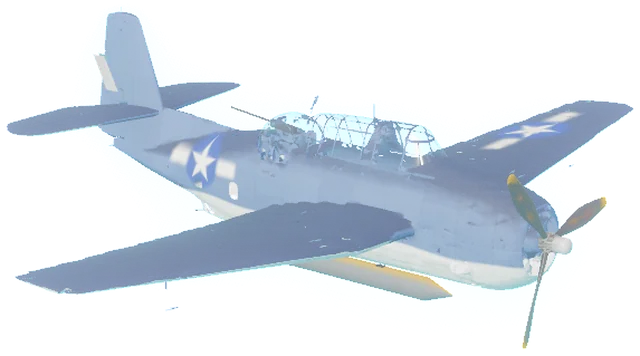
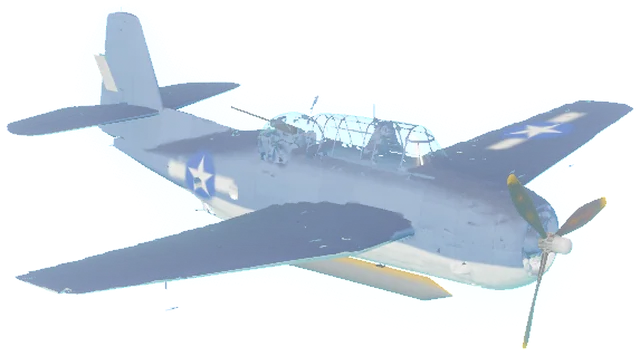
Markings centred on the wing chord and on the flank (the B-29 star was off), wing roots keep the upper colour

Changed region(s): [[0.25, 0.3708, 0.375, 0.5871], [0.75, 0.309, 0.9062, 0.4326], [0.8125, 0.7416, 0.8438, 0.7725]]

diff --git a/js/game/model/airpaint.js b/js/game/model/airpaint.js
@@ -51,17 +51,17 @@ export const AIRPAINT = {
     hw: 1.0, upper: '#4b5a6b', lower: '#adb1b3', line: -0.2, finish: [0.82, 0.0],
     decals: [
       { face: 'side', x: -2.0, y: 0.1, prims: usInsignia(0.4, false) },
-      { face: 'top', wing: 'port', x: 0.5, z: 4.4, prims: usInsignia(0.55, true) },
-      { face: 'bottom', wing: 'starboard', x: 0.5, z: 4.4, prims: usInsignia(0.55, true) },
+      { face: 'top', wing: 'port', x: 0.64, z: 4.4, prims: usInsignia(0.55, true) },
+      { face: 'bottom', wing: 'starboard', x: 0.64, z: 4.4, prims: usInsignia(0.55, true) },
     ],
   },
   // Grumman TBF-1C Avenger (1943): the tricolour, sea blue over intermediate blue over insignia white
   tbf: {
     hw: 1.3, upper: '#202e46', side: '#4b6286', lower: '#e2e4de', line: -0.35, finish: [0.82, 0.0],
     decals: [
-      { face: 'side', x: -3.2, y: 0.3, prims: usInsignia(0.5, false) },
-      { face: 'top', wing: 'port', x: 0.55, z: 5.6, prims: usInsignia(0.75, true) },
-      { face: 'bottom', wing: 'starboard', x: 0.55, z: 5.6, prims: usInsignia(0.75, true) },
+      { face: 'side', x: -3.2, y: 0.0, prims: usInsignia(0.5, false) },
+      { face: 'top', wing: 'port', x: 0.67, z: 5.6, prims: usInsignia(0.75, true) },
+      { face: 'bottom', wing: 'starboard', x: 0.67, z: 5.6, prims: usInsignia(0.75, true) },
     ],
   },
   // Ilyushin Il-2 (1942): 4BO green with black-green and brown blotches over light blue, red stars with a white edge
@@ -70,8 +70,8 @@ export const AIRPAINT = {
     camo: [{ col: '#2b3224', scale: 1.25, thr: 0.55, seed: 3, sides: true }, { col: '#5d4b30', scale: 0.9, thr: 0.64, seed: 11, sides: true }],
     decals: [
       { face: 'side', x: -3.0, y: 0.1, prims: redStar(0.45) },
-      { face: 'top', wing: 'both', x: 1.4, z: 4.6, prims: redStar(0.65) },
-      { face: 'bottom', wing: 'both', x: 1.4, z: 4.6, prims: redStar(0.65) },
+      { face: 'top', wing: 'both', x: 0.7, z: 4.6, prims: redStar(0.65) },
+      { face: 'bottom', wing: 'both', x: 0.7, z: 4.6, prims: redStar(0.65) },
     ],
   },
   // Messerschmitt Bf 109 F-4: RLM 74 / 75 splinter above, RLM 76 below and on the flanks with a mottle of 74, Balkenkreuz
@@ -80,18 +80,18 @@ export const AIRPAINT = {
     camo: [{ col: '#6f7385', scale: 1.1, thr: 0.5, seed: 5 }],
     mottle: { col: '#5f6753', scale: 5.0, thr: 0.74 },
     decals: [
-      { face: 'side', x: -2.3, y: 0.3, prims: balkenkreuz(0.42) },
-      { face: 'top', wing: 'both', x: 0.6, z: 3.5, prims: balkenkreuz(0.5) },
-      { face: 'bottom', wing: 'both', x: 0.6, z: 3.5, prims: balkenkreuz(0.5) },
+      { face: 'side', x: -2.3, y: 0.2, prims: balkenkreuz(0.42) },
+      { face: 'top', wing: 'both', x: 0.75, z: 3.5, prims: balkenkreuz(0.5) },
+      { face: 'bottom', wing: 'both', x: 0.75, z: 3.5, prims: balkenkreuz(0.5) },
     ],
   },
   // Boeing B-29 Superfortress: bare aluminium, the star and bars on the fuselage and the upper port and lower starboard wings
   b29: {
     hw: 1.55, upper: '#b7bbbd', lower: '#b7bbbd', line: null, finish: [0.36, 0.8],
     decals: [
-      { face: 'side', x: -6.2, y: 0.3, prims: usInsignia(0.8, false) },
-      { face: 'top', wing: 'port', x: 2.0, z: 13.0, prims: usInsignia(1.15, true) },
-      { face: 'bottom', wing: 'starboard', x: 2.0, z: 13.0, prims: usInsignia(1.15, true) },
+      { face: 'side', x: -6.2, y: 0.1, prims: usInsignia(0.8, false) },
+      { face: 'top', wing: 'port', x: 0.7, z: 13.0, prims: usInsignia(1.15, true) },
+      { face: 'bottom', wing: 'starboard', x: 0.7, z: 13.0, prims: usInsignia(1.15, true) },
     ],
   },
 };
@@ -133,7 +133,7 @@ export function airPaintWgsl() {
     L.push(`      let byN = smoothstep(-0.30, -0.05, n.y);`);
     if (s.line != null) {
       L.push(`      let byY = smoothstep(${f(s.line - 0.04)}, ${f(s.line + 0.04)}, p.y + 0.035 * sin(p.x * 2.6));`);
-      L.push(`      let upperK = mix(byN, byY, sideMask);`);      // (on the fuselage the line alone decides: the normals of a decimated mesh are noisy)
+      L.push(`      let upperK = mix(byN, byY, sideMask * (1.0 - smoothstep(0.6, 0.85, abs(n.y))));`);      // (on the flanks of the fuselage the line decides: the normals of a decimated mesh are noisy there; what faces up or down goes by its normal, the root of a low wing included)
     } else L.push(`      let upperK = byN;`);
     L.push(`      var top = ${col(s.upper)};`);
     if (s.side) L.push(`      top = mix(top, ${col(s.side)}, (1.0 - smoothstep(0.3, 0.65, abs(n.y))) * sideMask);`);

diff --git a/CHANGELOG.md b/CHANGELOG.md
@@ -2,6 +2,7 @@
 
 ## Unreleased — traffic, ordnance, ammunition (in progress)
 
+- Fixed: the star on the wing of the B-29 was 1.3 m behind the middle of the chord (and hung off the trailing edge); every marking was checked against the chord of the wing and the height of the flank at its place, and the root of a low wing no longer takes the colour of the belly.
 - **A close look at every aircraft drawn from a model** (the noise that was left): the baked ambient occlusion is off for these models (its rays hit their many small triangles and made the fuselages look like a pixelated camouflage); the line between the upper and the lower colour decides alone on the fuselage (`hw`, its half width, in the scheme), the smoothed normals of the clustered models are smoothed over a wider angle (`crease` in the sheet); the camouflage noise now covers its 0..1 range (the Il-2 blotches, the splinter and the mottle of the Bf 109); the decals of a wide fuselage (the B-29) are no longer cut; the SBD and the TBF get more triangles for the fuselage and the wings; `planegroups.py` can keep only the outer skin where a model has layers one inside the other (`shell`).
 - **All the aircraft drawn from models are painted by the game** (`model/airpaint.js`): the SBD-3 (blue-gray over light gray, the star and bars on a flank, the upper port and lower starboard wings), the TBF-1C (the tricolour: sea blue, intermediate blue, white), the Il-2 (4BO green with black-green and brown blotches over light blue, red stars with a white edge on the flanks and both faces of both wings), the Bf 109 F-4 (RLM 74 / 75 splinter above, RLM 76 below and on the flanks with a mottle, Balkenkreuz) and the B-29 (bare aluminium, glossy metal finish, the star and bars). The schemes now describe their markings as decals (discs, five-pointed stars, rectangles) and can carry a flank colour, camouflage blotches, a mottle and a finish (roughness, metalness). Their pieces are written without colours or refinement: the files drop to a quarter of their size.
 - Fixed: the Bf 109 had a flat spiky flap standing above the fuselage behind its canopy (spikes that the decimation of a model made of loose shells leaves: `planegroups.py` now has `needles`, which drops the long thin triangles of a box) and a ragged tail (finer clustering, a bigger budget).
